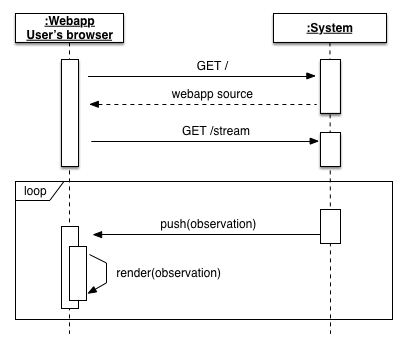
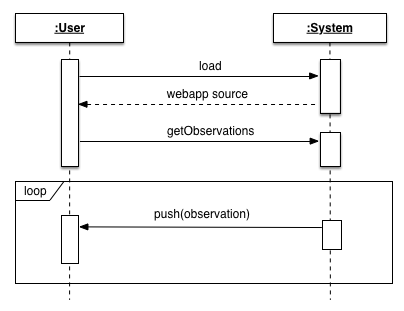
Keep specification abstract removing design details and replacing web app user with just user

diff --git a/chap4.tex b/chap4.tex
@@ -6,19 +6,19 @@
 %% prompt when you run the file main.tex through LaTeX.
 \chapter{Specification}
 
-The following section describes what the system does detailing its features.
+The following section describes what the system does detailing its entities.
 
 \section{Uses Case Model}
 
-This section describes the services of the systems as events triggered by external actors and their interrelation.
+This section describes the operations of the systems as events triggered by external actors and their interrelation.
 
-\subsection*{Actors}
+\subsection{Actors} \label{actors}
 
-The actors of the system are:
+The actors of the system are the following.
 
 \begin{description}
-	\item[Sensor device] The device responsible for registering itself in the system and sending the gathered observations to it. As the design and building of the sensor device is out of the scope of the project, it is simulated by a CLI tool that allows to issue request against the system.
-	\item[Web application user] A person who interacts with the public web application that shows the observations in a data visualization.
+	\item[Sensor device] The device responsible for registering itself in the system and sending the measured observations to it.
+	\item[User] A person who interacts with the public web application that shows the observations in a data visualization.
 \end{description}
 
 \subsection{Use Cases}
@@ -36,14 +36,14 @@ The actors of the system are:
 	\addfield{Preconditions:}{The system is running}
 	\addfield{Postconditions:}{The sensor is registered and persisted in the system}
 	\addscenario{Main Success Scenario:}{
-		\item The sensor issues a POST request to the sensors endpoint
+		\item The sensor sends a request to register itself
 		\item The system stores the sensor's information in the database
-		\item The system sends an HTTP response with 201 status code to the sensor
+		\item The system notifies the sensor that it has been successfully registered
 	}
 	\addscenario{Extensions:}{
 		\item[1.a] The sensor is already registered
 			\begin{enumerate}
-			\item[1.] The system returns an HTTP response with status 400
+			\item[1.] The system returns an error response
 			\end{enumerate}
 	}
 \end{usecase}
@@ -60,36 +60,36 @@ The actors of the system are:
 		\item The observation is sent to the web application tier
 	}
 	\addscenario{Main Success Scenario:}{
-		\item The sensor issues a POST request to the observations endpoint
+		\item The sensor sends a request to store the observation
 		\item The system stores the observation's data in the database
 		\item The system sends the observation's data to the web application tier
-		\item The system sends a HTTP response with 201 status code to the sensor
+		\item The system notifies the sensor the observation has been successfully stored
 	}
 	\addscenario{Extensions:}{
-		\item[1.a] The sensor is not found
+		\item[1.a] The observation's sensor is not found
 			\begin{enumerate}
-			\item[1.] The system returns a 400 HTTP response status
+			\item[1.] The system returns an error response
 			\end{enumerate}
 	}
 \end{usecase}
 
 \begin{usecase}
 	\addtitle{Use Case 3}{Browse data}
-	\addfield{Actors:}{Web application user}
+	\addfield{Actors:}{User}
 	\addfield{Preconditions:}{The system is running}
 	\addfield{Postconditions:}{The web application is shown}
 	\addscenario{Main Success Scenario:}{
-		\item The user points the browser to the web application URL
-		\item Once loaded, the web application establishes a stream connection
+		\item The user's browser loads the web application
+		\item Once loaded, the web application establishes a connection against the system
 		\item The system pushes the observations to the web application as they are available
 	}
 \end{usecase}
 
 \section{Conceptual Model}
 
-As shown in figure \ref{fig:use_cases}, the system consists of two main components the Observations service and the Web application, which operate over the various entities involved in the system. The diagram \ref{fig:conceptual_model} describes them and their relations, heavily based on the OGC O\&M model \cite{OM}.
+As shown in figure \ref{fig:use_cases}, the system revolves around the concepts of \textit{Observation} and \textit{Sensor}. The diagram \ref{fig:conceptual_model} describes these concepts and other entities involved in the system as well as their relations, heavily based on the OGC O\&M model \cite{OM}.
 
-An observation is an aggregation of the following six elements:
+To start with, an observation is an aggregation of the following six elements:
 
 \begin{description}
 \item[Feature of interest] A representation of a real-world object that carries the observed property, e.g. "Pant\`a de Sau". Hence, for an in-place instrument it would be the sensor location, whereas for a remote sensor it is the target location.
